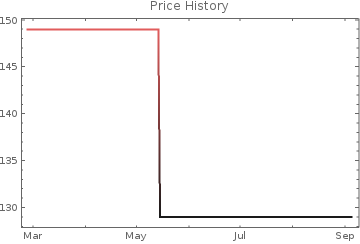
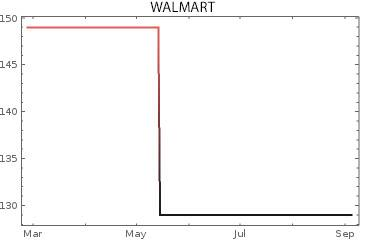
2nd comparison

Changed region(s): [[0.0, 0.0, 1.0, 1.0]]

diff --git a/calc.html b/calc.html
@@ -39,17 +39,28 @@
       
     </center>
     <input type="submit" value="Compare!" class="comparebutton">
-    <h1> We recommend Walmart </h2>
-    <ul>
-      <li class="reason">Currently $2.01 Cheaper than Target</li>
-      <li class="reason">Current sale is rank 1 out of 1 sale</li>
-      <li class="reason"> Current sale is same as average sale</li>
-    </ul>
-    <div>
-      <!-- <p> target</p> -->
-      <img class= "graph" src="target.jpg" alt="">
-      <!-- <p>walmart</p> -->
-      <img class= "graph" src="walmart.jpg" alt="">
+    <div class="comparison">
+      <h1> We recommend Walmart </h2>
+      <ul>
+        <li class="reason">Currently $2.01 Cheaper than Target</li>
+        <li class="reason">Current sale is rank 1 out of 1 sale</li>
+        <li class="reason"> Current sale is same as average sale</li>
+      </ul>
+      <div>
+        <!-- <p> target</p> -->
+        <img class= "graph" src="target.jpg" alt="">
+        <!-- <p>walmart</p> -->
+        <img class= "graph" src="walmart.jpg" alt="">
+      </div>
+    </div>
+
+    <div class="solocompare">
+      <h1> HP 15-r132wm 15" Notebook PC </h1>
+      <ul>
+        <li class="reason">Current sale is rank 1 out of 3 sales</li>
+        <li class="reason"> Current sale is 466.66% better than the average sale</li>
+      </ul>
+      <img class= "graph" src="laptop.png" alt="">
     </div>
     <script src="http://www.parsecdn.com/js/parse-1.6.0.min.js"></script>
     <script src="https://ajax.googleapis.com/ajax/libs/jquery/2.1.3/jquery.min.js"></script>
